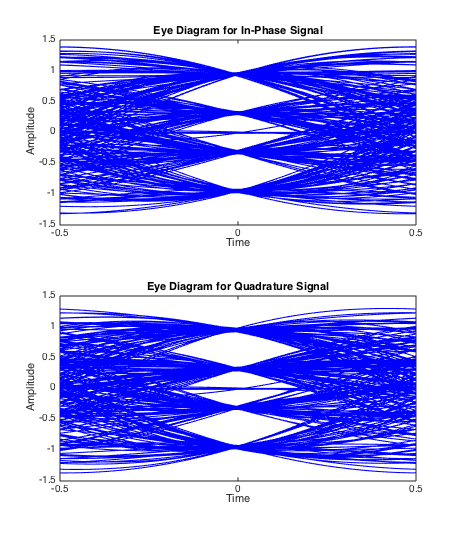
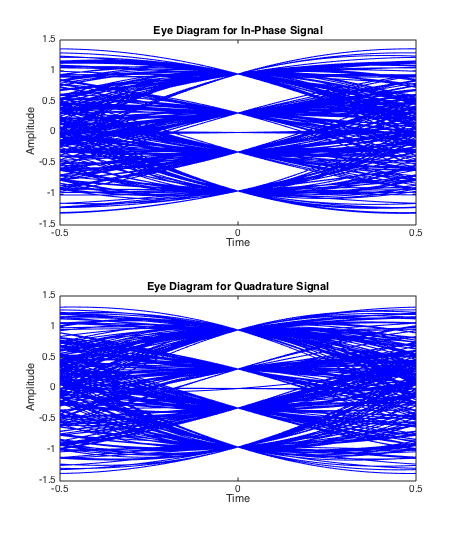
Use 40 spans instead of 6

Changed region(s): [[0.1217, 0.0593, 0.913, 0.4148], [0.1217, 0.563, 0.913, 0.8889]]

diff --git a/4/qam_receive.m b/4/qam_receive.m
@@ -17,10 +17,10 @@ function symbols = qam_receive(signals, f_carrier, oversample_rate, method)
     % plot(signals(1:sample_rate*100, :));
 
     % LPF
-    lpf = rcosdesign(0.5, 6, sample_rate);
-    % eyediagram(filter(lpf, 1, signals), sample_rate, 1, 3);
+    lpf = rcosdesign(0.5, 40, sample_rate);
+    % eyediagram(filter(lpf, 1, signals), sample_rate, 1);
     signals = upfirdn(signals, lpf, 1, sample_rate);
-    signals = signals(7:end-6, :);  % Caused by filter delay.
+    signals = signals(41:end-40, :);  % Caused by filter delay.
 
     % Judge & merge.
     symbols = qam_l_judge(signals)';

diff --git a/4/qam_send.m b/4/qam_send.m
@@ -18,9 +18,9 @@ function signals = qam_send(symbols, f_carrier, oversample_rate, method)
     signals = qam_2l_convert(symbols, method);
 
     % LPF,
-    lpf = rcosdesign(0.5, 6, sample_rate);
+    lpf = rcosdesign(0.5, 40, sample_rate);
     signals = upfirdn(signals, lpf, sample_rate);
-    % eyediagram(signals, sample_rate, 1, 3);
+    % eyediagram(signals, sample_rate, 1);
     signal_len = size(signals, 1);
 
     % Get on carrier.
